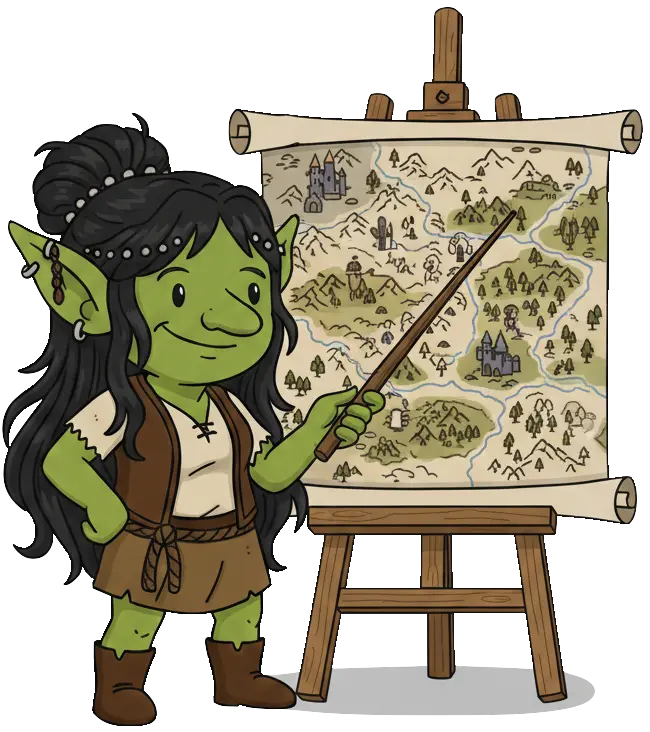
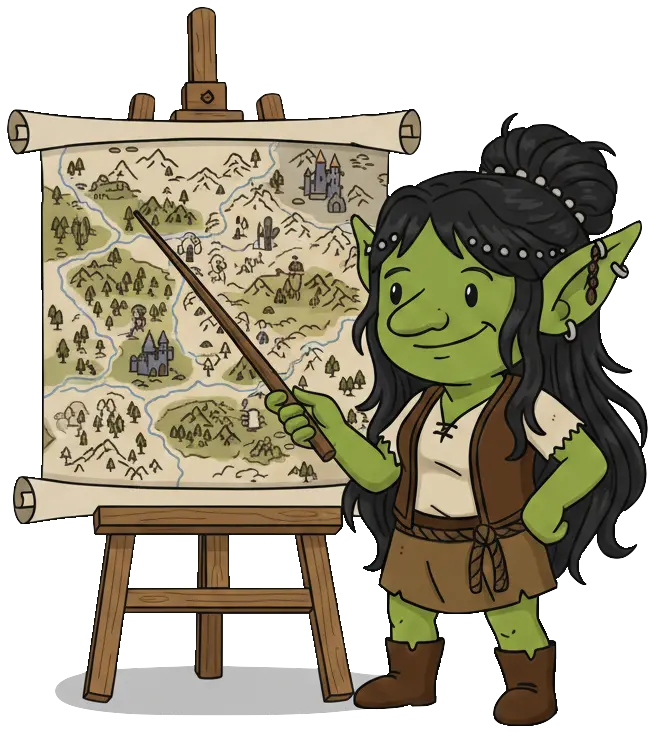
feat(front): add loyalty section to the landing

diff --git a/front/src/app/b2c/[locale]/(landing)/_components/desktop-layout.tsx b/front/src/app/b2c/[locale]/(landing)/_components/desktop-layout.tsx
@@ -10,6 +10,7 @@ import Script from 'next/script';
 import SocialLinks from './social-links';
 import { LanguageSelector } from './language-selector';
 import styles from './desktop-landing.module.css';
+import { cn } from '@/lib/utils';
 
 export default function DesktopLayout() {
   const t = useTranslations('screens.landing');
@@ -73,7 +74,7 @@ export default function DesktopLayout() {
             className={styles.navLink}
             onClick={() => scrollToSection('loyalty')}
           >
-            {t('header.nav.loyaltyProgram')}
+            {t('header.nav.loyaltyPrograms')}
           </span>
           <span
             className={styles.navLink}
@@ -102,7 +103,7 @@ export default function DesktopLayout() {
             </Link>
           </p>
           <p className={styles.cardDescription}>
-            {t.rich('cheers.loyaltyProgram', {
+            {t.rich('cheers.loyaltyPrograms', {
               link: (chunks) => (
                 <span
                   className={styles.actionLink}
@@ -231,17 +232,25 @@ export default function DesktopLayout() {
         </div>
       </section>
 
-      {/* Contact Us Section */}
-      <section id="contact-us" className={styles.contactSection}>
+      {/* Loyalty Program Section */}
+      <section id="loyalty" className={styles.loyaltySection}>
         <div className={styles.sideImage}>
           <Image
-            src="/assets/landing/section-contact-us.webp"
-            alt="Goblin Artist"
-            width={300}
-            height={400}
+            src="/assets/landing/section-loyalty.webp"
+            alt="Cheers"
+            width={400}
+            height={370}
           />
         </div>
 
+        <div className={styles.card}>
+          <h1 className={styles.cardTitle}>{t('loyalty.title')}</h1>
+          <p className={styles.cardDescription}>{t('loyalty.description')}</p>
+        </div>
+      </section>
+
+      {/* Contact Us Section */}
+      <section id="contact-us" className={styles.contactSection}>
         <div className={`${styles.card} ${styles.contactCard}`}>
           <h2 className={styles.cardTitle}>{t('contactUs.title')}</h2>
           <p className={styles.cardDescription}>
@@ -272,6 +281,14 @@ export default function DesktopLayout() {
               ),
             })}
           </p>
+        </div>
+        <div className={cn(styles.sideImage, '-mt-16 mb-4')}>
+          <Image
+            src="/assets/landing/section-contact-us.webp"
+            alt="Goblin Artist"
+            width={300}
+            height={400}
+          />
         </div>
       </section>
 

diff --git a/front/src/app/b2c/[locale]/(landing)/_components/mobile-layout.tsx b/front/src/app/b2c/[locale]/(landing)/_components/mobile-layout.tsx
@@ -22,14 +22,15 @@ export default function MobileLayout() {
     fetchNews();
   }, [fetchNews]);
 
-  const scrollToSection = (sectionId: string) => {
+  const scrollToSection = (sectionId: string, waitDrawer: boolean = true) => {
     setIsMenuOpen(false);
+    const scrollDelay = waitDrawer ? 300 : 0;
     setTimeout(() => {
       const element = document.getElementById(`mobile-${sectionId}`);
       if (element) {
         element.scrollIntoView({ behavior: 'smooth' });
       }
-    }, 300); // Wait for drawer to close
+    }, scrollDelay); // Wait for drawer to close
   };
 
   return (
@@ -105,7 +106,7 @@ export default function MobileLayout() {
             className={mobileStyles.drawerNavLink}
             onClick={() => scrollToSection('loyalty')}
           >
-            {t('header.nav.loyaltyProgram')}
+            {t('header.nav.loyaltyPrograms')}
           </span>
           <span
             className={mobileStyles.drawerNavLink}
@@ -169,11 +170,11 @@ export default function MobileLayout() {
             })}{' '}
           </p>
           <p className={mobileStyles.mobileCardDescription}>
-            {t.rich('cheers.loyaltyProgram', {
+            {t.rich('cheers.loyaltyPrograms', {
               link: (chunks) => (
                 <span
                   className={styles.actionLink}
-                  onClick={() => scrollToSection('loyalty')}
+                  onClick={() => scrollToSection('loyalty', false)}
                 >
                   {chunks}
                 </span>
@@ -305,6 +306,25 @@ export default function MobileLayout() {
           </div>
           <p className={mobileStyles.mobileCardDescription}>
             {t('howItWorks.note')}
+          </p>
+        </div>
+      </section>
+
+      {/* Loyalty Programs Section */}
+      <section id="mobile-loyalty" className={mobileStyles.mobileSection}>
+        <div className={mobileStyles.mobileSectionImage}>
+          <Image
+            src="/assets/landing/section-loyalty.webp"
+            alt="Loyalty Programs"
+            width={280}
+            height={280}
+            className={mobileStyles.sectionImg}
+          />
+        </div>
+        <div className={`${styles.card} ${mobileStyles.mobileSectionCard}`}>
+          <h1 className={mobileStyles.mobileCardTitle}>{t('loyalty.title')}</h1>
+          <p className={mobileStyles.mobileCardDescription}>
+            {t.rich('loyalty.description')}
           </p>
         </div>
       </section>

diff --git a/front/src/app/b2c/[locale]/(landing)/_components/desktop-landing.module.css b/front/src/app/b2c/[locale]/(landing)/_components/desktop-landing.module.css
@@ -68,8 +68,6 @@
   @apply hidden;
 }
 
-
-
 .logoSubtitle {
   @apply ml-4 translate-y-[-2px] text-sm;
   color: var(--color-landing-subheading);
@@ -89,18 +87,6 @@
 
 .navLink {
   @apply cursor-pointer text-base font-medium transition-colors hover:opacity-80;
-}
-
-@media (max-width: 1200px) {
-  .logoTextFull {
-    display: none;
-  }
-  .logoTextShort {
-    display: block;
-  }
-  .nav {
-    @apply gap-4;
-  }
 }
 
 .loginButton {
@@ -154,7 +140,7 @@
 
 /* ===== How It Works Section ===== */
 .howItWorksSection {
-  @apply flex scroll-mt-[100px] items-center gap-0 px-16 py-[20px];
+  @apply flex scroll-mt-[100px] items-center gap-0 px-16 pt-[32px] pb-[12px];
 }
 
 .howItWorksSteps {
@@ -183,6 +169,11 @@
 
 .decorativeImage {
   @apply rounded-lg object-contain;
+}
+
+/* ===== Loyalty Program Section ===== */
+.loyaltySection {
+  @apply flex scroll-mt-[100px] items-center justify-between gap-5 px-16 pb-[20px];
 }
 
 /* ===== Contact Us Section ===== */
@@ -218,4 +209,24 @@
 .socialLink {
   @apply opacity-60 transition-opacity hover:opacity-100;
   color: var(--color-landing-text);
+}
+
+@media (max-width: 1200px) {
+  .logoTextFull {
+    display: none;
+  }
+  .logoTextShort {
+    display: block;
+  }
+  .nav {
+    @apply gap-4;
+  }
+
+  .footer {
+    @apply px-8;
+  }
+
+  .footerLinks {
+    @apply gap-4;
+  }
 }

diff --git a/front/src/app/b2c/[locale]/(landing)/_components/mobile-landing.module.css b/front/src/app/b2c/[locale]/(landing)/_components/mobile-landing.module.css
@@ -119,7 +119,7 @@
 
 /* ===== Mobile Sections ===== */
 .mobileSection {
-  @apply mx-auto flex max-w-[600px] flex-col items-center px-4 py-6;
+  @apply mx-auto flex max-w-[600px] flex-col items-center px-4 py-5;
 }
 
 .mobileSection:first-of-type {
